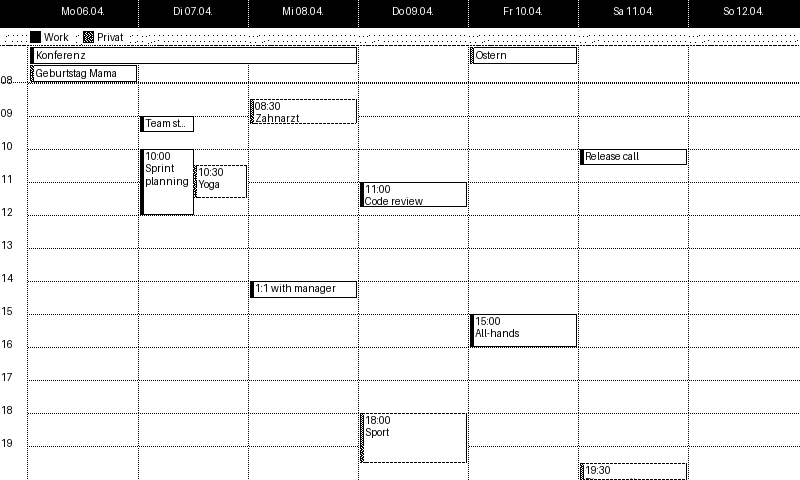
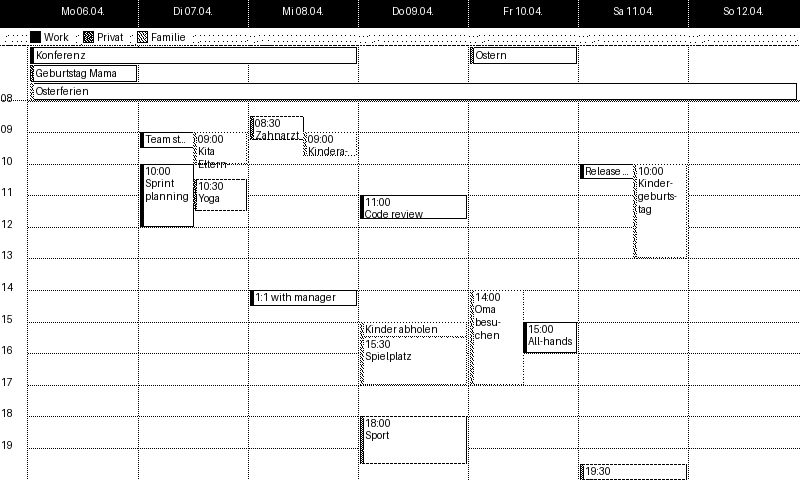
add hyphenation support, update example

diff --git a/app/templates/admin.html b/app/templates/admin.html
@@ -113,6 +113,21 @@
     </div>
     <div class="row" style="margin-top:10px">
       <div>
+        <label for="hyphenation_lang">Hyphenation language</label>
+        <select id="hyphenation_lang" name="hyphenation_lang"
+                style="width:100%;padding:6px 8px;border:1px solid #bbb;border-radius:4px;font-size:0.9rem">
+          {% set lang = cfg.get('hyphenation_lang', 'de_DE') %}
+          <option value="de_DE" {% if lang == 'de_DE' %}selected{% endif %}>German (de_DE)</option>
+          <option value="en_US" {% if lang == 'en_US' %}selected{% endif %}>English (en_US)</option>
+          <option value="fr_FR" {% if lang == 'fr_FR' %}selected{% endif %}>French (fr_FR)</option>
+          <option value="nl_NL" {% if lang == 'nl_NL' %}selected{% endif %}>Dutch (nl_NL)</option>
+          <option value="es_ES" {% if lang == 'es_ES' %}selected{% endif %}>Spanish (es_ES)</option>
+          <option value="it_IT" {% if lang == 'it_IT' %}selected{% endif %}>Italian (it_IT)</option>
+        </select>
+      </div>
+    </div>
+    <div class="row" style="margin-top:10px">
+      <div>
         <label for="time_window_hours">Time window (hours shown)</label>
         <input type="number" id="time_window_hours" name="time_window_hours"
                value="{{ cfg.time_window_hours }}" min="1" max="24" required>

diff --git a/app/renderer.py b/app/renderer.py
@@ -22,6 +22,8 @@ import dataclasses
 from datetime import date, datetime, timedelta
 from pathlib import Path
 
+import pyphen
+
 from PIL import Image, ImageDraw, ImageFont
 
 from caldav_client import CalEvent
@@ -408,22 +410,68 @@ def render_3day(
 
 # ── Event block renderer ──────────────────────────────────────────────────────
 
+_hyphenation_lang: str          = "de_DE"
+_hyphenator:       pyphen.Pyphen | None = None
+
+
+def set_hyphenation_lang(lang: str) -> None:
+    global _hyphenation_lang, _hyphenator
+    _hyphenation_lang = lang
+    _hyphenator = None   # force recreation on next use
+
+
+def _get_hyphenator() -> pyphen.Pyphen:
+    global _hyphenator
+    if _hyphenator is None:
+        _hyphenator = pyphen.Pyphen(lang=_hyphenation_lang)
+    return _hyphenator
+
+
+def _break_word(word: str, max_px: int, font: ImageFont.FreeTypeFont,
+                draw: ImageDraw.ImageDraw) -> tuple[str, str]:
+    """
+    Break a word that is too long to fit in max_px.
+    Returns (head_with_hyphen, tail). Falls back to a character-level split
+    if no hyphenation point is found.
+    """
+    hyph  = _get_hyphenator()
+    pairs = hyph.iterate(word)          # yields (left, right) pairs, longest first
+    for left, right in pairs:
+        candidate = left + "-"
+        if draw.textlength(candidate, font=font) <= max_px:
+            return candidate, right
+    # No hyphenation point fits — split character by character
+    for i in range(len(word) - 1, 0, -1):
+        candidate = word[:i] + "-"
+        if draw.textlength(candidate, font=font) <= max_px:
+            return candidate, word[i:]
+    return word, ""                     # word is too long even for one char
+
+
 def _wrap_text(text: str, max_px: int, font: ImageFont.FreeTypeFont,
                draw: ImageDraw.ImageDraw) -> list[str]:
-    """Split text into lines that each fit within max_px."""
+    """Split text into lines that each fit within max_px, with hyphenation."""
     words = text.split()
     if not words:
         return []
     lines: list[str] = []
-    current = words[0]
-    for word in words[1:]:
-        candidate = current + " " + word
+    current = ""
+    for word in words:
+        candidate = (current + " " + word).lstrip() if current else word
         if draw.textlength(candidate, font=font) <= max_px:
             current = candidate
         else:
-            lines.append(current)
+            # Word doesn't fit on the current line — try hyphenating
+            if current:
+                lines.append(current)
+                current = ""
+            # The word may still be too long even on its own line
+            while draw.textlength(word, font=font) > max_px:
+                head, word = _break_word(word, max_px, font, draw)
+                lines.append(head)
             current = word
-    lines.append(current)
+    if current:
+        lines.append(current)
     return lines
 
 

diff --git a/app/server.py b/app/server.py
@@ -36,7 +36,7 @@ from flask import Flask, redirect, render_template, request, url_for
 from jinja2 import Environment, FileSystemLoader
 
 _jinja = Environment(loader=FileSystemLoader(Path(__file__).parent / "templates"), autoescape=True)
-from renderer import render_days
+from renderer import render_days, set_hyphenation_lang
 
 logging.basicConfig(
     level=logging.INFO,
@@ -110,6 +110,7 @@ def _render_to_bytes(days: list[date], calendars: list[dict]) -> bytes:
             log.warning("  %-20s → FAILED: %s", name, e)
             events_by_cal[name] = (color, [])
 
+    set_hyphenation_lang(cfg.get("hyphenation_lang", "de_DE"))
     img = render_days(
         days,
         events_by_cal,
@@ -307,8 +308,9 @@ def admin_settings():
         cfg["time_window_hours"] = int(request.form["time_window_hours"])
         cfg["time_start_mode"]  = request.form["time_start_mode"]
         cfg["time_start_hour"]  = int(request.form["time_start_hour"])
-        cfg["today_highlight"]  = "today_highlight" in request.form
-        cfg["view_mode"]        = request.form["view_mode"]
+        cfg["today_highlight"]    = "today_highlight" in request.form
+        cfg["view_mode"]          = request.form["view_mode"]
+        cfg["hyphenation_lang"]   = request.form["hyphenation_lang"]
         config.update(cfg)
     except Exception as e:
         return redirect(url_for("admin_index", error=str(e)))

diff --git a/app/config.py b/app/config.py
@@ -131,12 +131,13 @@ def webhooks() -> list[dict]:
 # Keys that may be absent in config files created by older versions.
 # Applied automatically when loading from disk.
 _DEFAULTS: dict = {
-    "webhooks":          [],
-    "time_window_hours": 12,
-    "time_start_mode":   "auto",
-    "time_start_hour":   8,
-    "today_highlight":   False,
-    "view_mode":         "week",
+    "webhooks":           [],
+    "time_window_hours":  12,
+    "time_start_mode":    "auto",
+    "time_start_hour":    8,
+    "today_highlight":    False,
+    "view_mode":          "week",
+    "hyphenation_lang":   "de_DE",
 }
 
 
@@ -158,8 +159,9 @@ def _from_env() -> dict:
         "time_window_hours": 12,
         "time_start_mode":  "auto",
         "time_start_hour":  8,
-        "today_highlight":  False,
-        "view_mode":        "week",
+        "today_highlight":   False,
+        "view_mode":         "week",
+        "hyphenation_lang":  "de_DE",
     }
 
 

diff --git a/app/scheduling.py b/app/scheduling.py
@@ -105,5 +105,15 @@ def _assign_lanes(
         if not placed:
             ev_lanes.append(len(lane_end))
             lane_end.append(ev.end)
-    num_lanes = len(lane_end)
-    return [(ev, lane, num_lanes) for ev, lane in zip(sorted_evs, ev_lanes)]
+    result = []
+    for ev, lane in zip(sorted_evs, ev_lanes):
+        # Check at every event-start that falls within this event's span —
+        # the max concurrent count there is the correct local num_lanes.
+        checkpoints = {e.start for e in sorted_evs if ev.start <= e.start < ev.end}
+        checkpoints.add(ev.start)
+        num_lanes = max(
+            sum(1 for e in sorted_evs if e.start <= t < e.end)
+            for t in checkpoints
+        )
+        result.append((ev, lane, num_lanes))
+    return result
